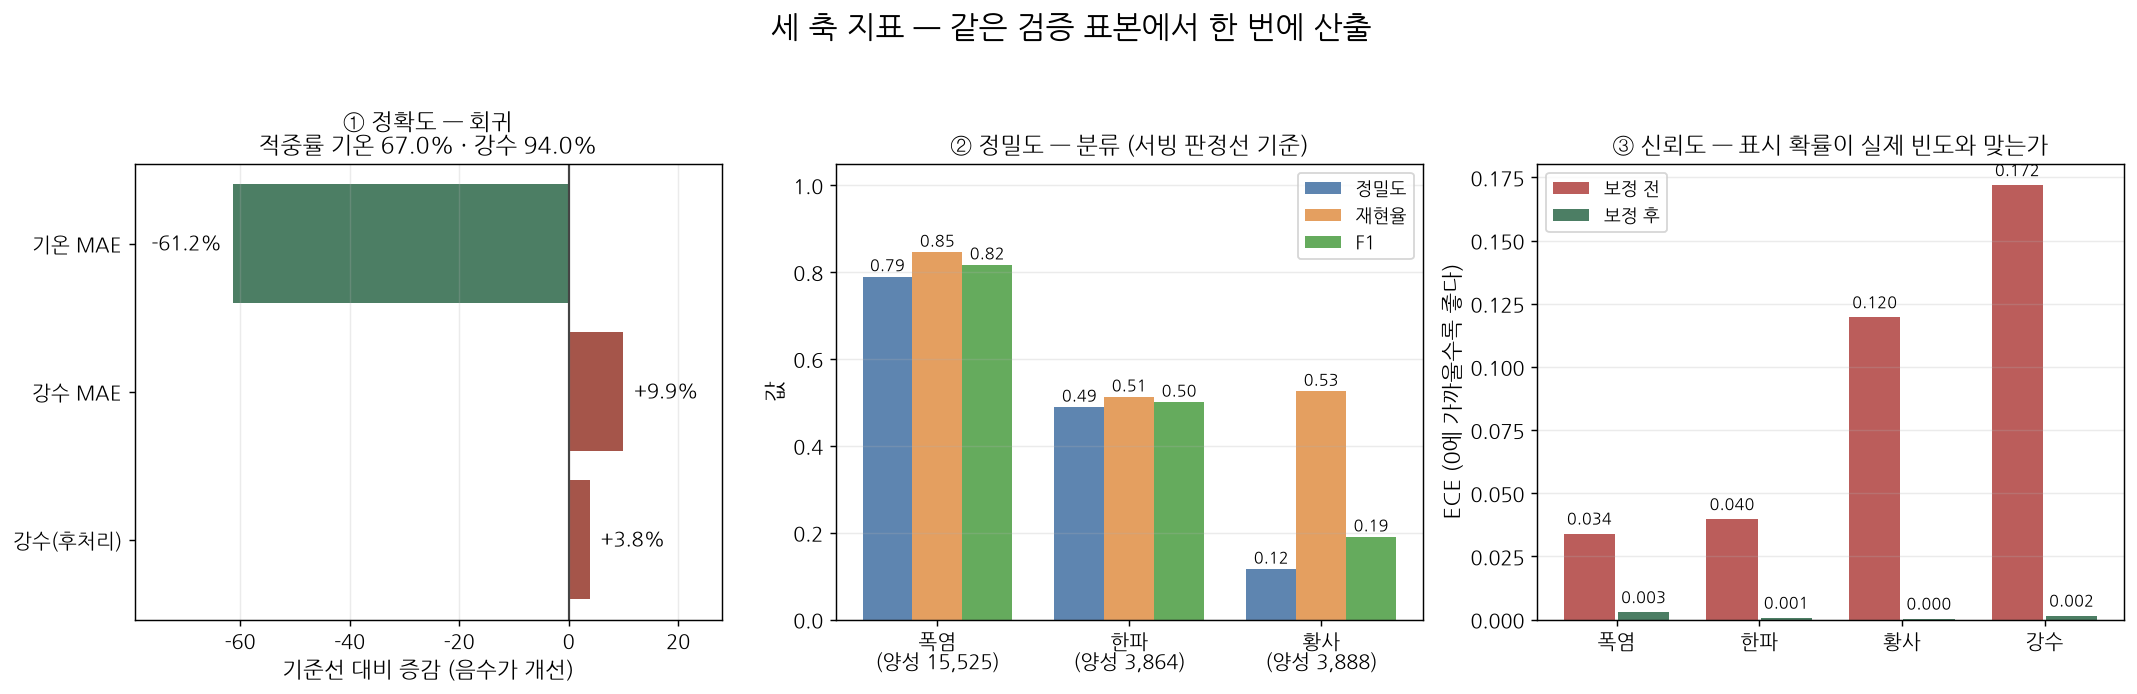
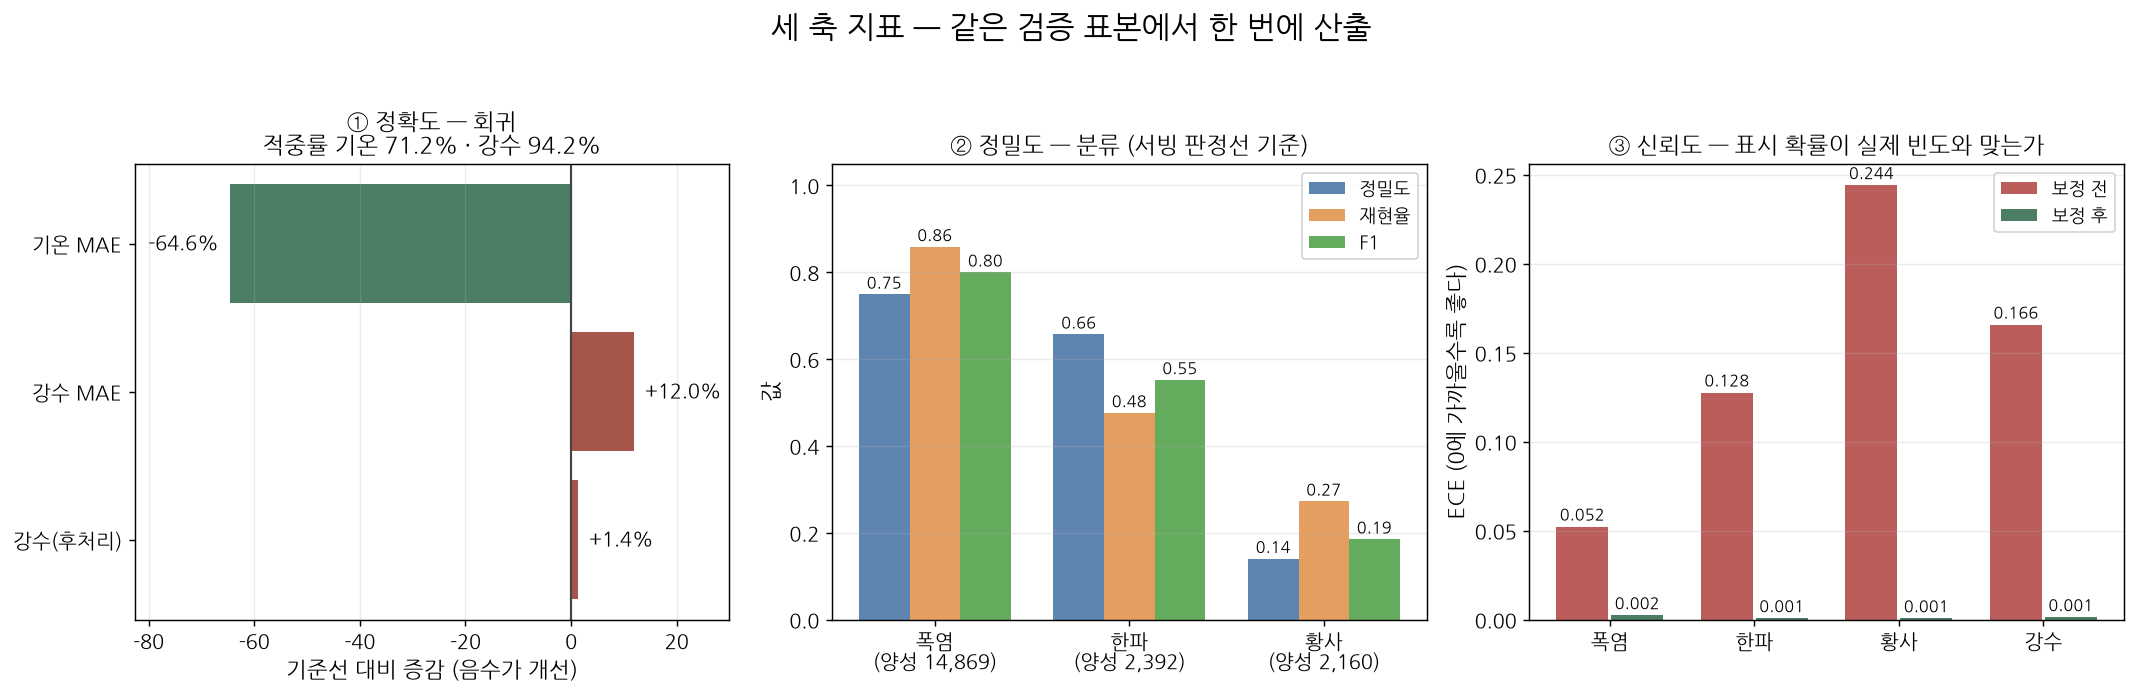
승격 후 문서·화면 수치를 새 배포 모델 기준으로 갱신
요약표·결과 요약·성능 검증 탭 서술을 2026-09-07 배포본 실측으로 바꿨다.
  기온 MAE 1.30 → 1.166°C (퍼시스턴스 대비 +61.2% → +64.6%)
  강수 발생 판정 F1 0.463 → 0.588 (정밀도 54.9% · 재현율 63.3%)
  강수 구간 조건부 MAE 2.2396 → 2.1434mm (기준선 대비 −8.9% → −14.1%)
  폭염 F1 0.817 → 0.800 · 한파 0.500 → 0.552
  ECE(보정 후) 폭염 0.002 · 한파 0.001 · 황사 0.001
  계절 오탐 0.014% → 0.00%, 단조성 폭염·한파 모두 12/12 정상

전체 강수 MAE 는 0.157 → 0.166mm 로 나빠 보인다. 성능 저하가 아니라
강도를 실제로 표현하게 된 결과이며, 그 사실을 숨기지 않고 병기했다 —
전체 MAE 가 93.8% 무강수 표본에 지배되어 "상시 0"으로 끌린다는 것은
'강수 축 상한 분석'이 이미 정량으로 밝힌 바다. 주 지표 둘은 모두 개선됐다.

'출력값 추이' 탭 캡션을 정정했다. +6시간만 수치예보 모델로 교체되고
+12시간은 종전 체크포인트라, 두 값의 격차에 리드타임 효과와 모델 세대
차이가 섞여 있다. 그 사실을 밝히지 않으면 격차를 리드타임 탓으로만
읽게 된다.

diff --git a/app.py b/app.py
@@ -1116,14 +1116,20 @@ with tab_trend:
         # 0.453→0.509) 한파가 오히려 +6h 를 앞질렀다. 두 체크포인트를 다시
         # 재서 실제 방향으로 고쳤다 — 리드타임별 저하 폭은 지표마다 다르며,
         # 가장 크게 무너지는 것은 강수다.
+        # 2026-09-07 정정 — +6시간만 수치예보(NWP) 입력을 쓰는 모델로 교체됐고
+        # +12시간은 아직 종전 체크포인트다. 두 값을 나란히 놓을 때 그 사실을
+        # 밝히지 않으면, 리드타임 차이로 보이는 것 중 일부가 실은 **모델 세대
+        # 차이**라는 점이 가려진다.
         st.caption(
             "+12시간은 2차 산출값이다 — 절대오차가 +6시간보다 크다(기온 MAE "
-            "1.30→1.66°C, 검증셋 평균). 저하 폭은 지표마다 다르다: 강수가 "
-            "가장 크게 무너지고(기준선 대비 −9.9%→−25.1%), 폭염이 그다음이며"
-            "(F1 0.814→0.776), 한파·황사는 사실상 유지된다(0.499→0.509, "
-            "0.191→0.192 — 한파는 중첩 전이학습을 따로 적용한 결과다). 계절 "
-            "오탐은 1.21%로 차단 기준(10%) 아래다. '성능 검증' 탭 수치는 "
-            "+6시간 기준이며 이 값의 영향을 받지 않는다."
+            "1.17→1.66°C, 검증셋 평균). 다만 지금 두 값은 **세대가 다른 두 "
+            "모델의 출력**이다: +6시간은 2026-09-07에 수치예보(NWP) 예보값을 "
+            "입력으로 편입한 모델로 교체됐고, +12시간은 그 이전 체크포인트를 "
+            "그대로 쓴다. 따라서 아래 격차에는 리드타임 효과와 모델 차이가 "
+            "함께 섞여 있으며, 리드타임만의 효과로 읽어서는 안 된다. "
+            "+12시간 자체의 값은 강수 기준선 대비 −25.1%, 폭염 F1 0.776, "
+            "한파 0.509, 황사 0.192이고 계절 오탐 1.21%로 차단 기준(10%) "
+            "아래다. '성능 검증' 탭 수치는 +6시간 기준이다."
         )
 
     history, history_source = load_merged_history()
